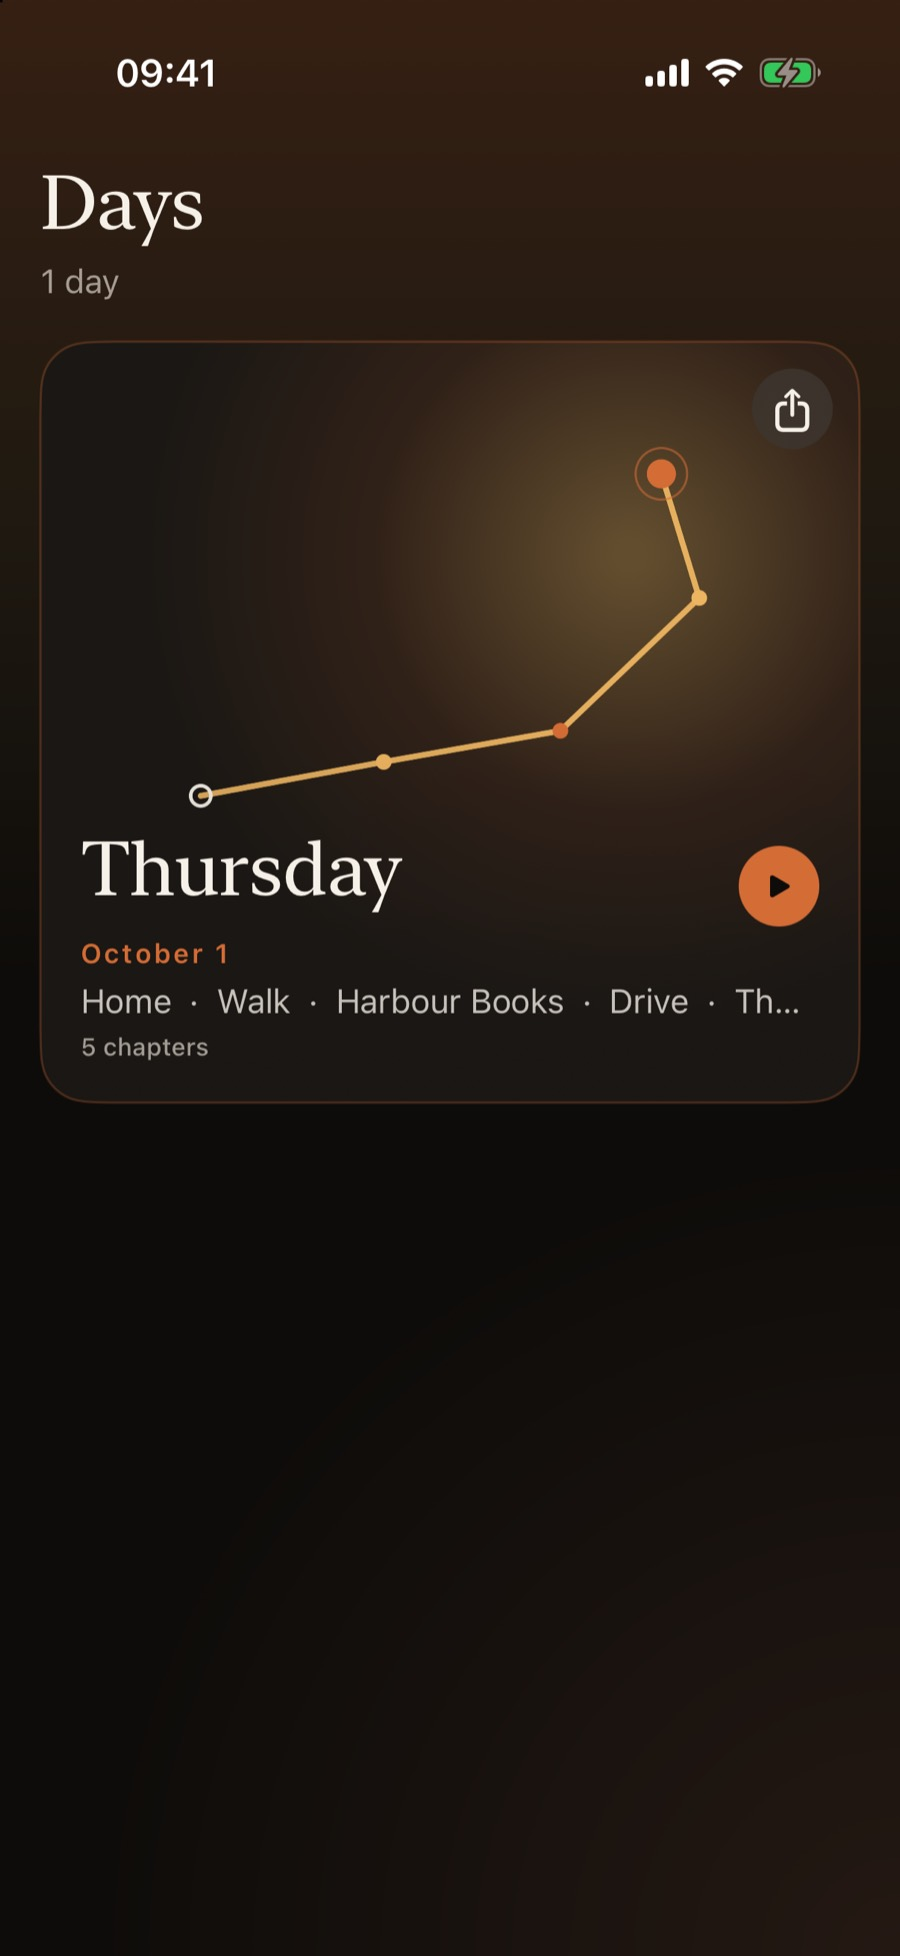
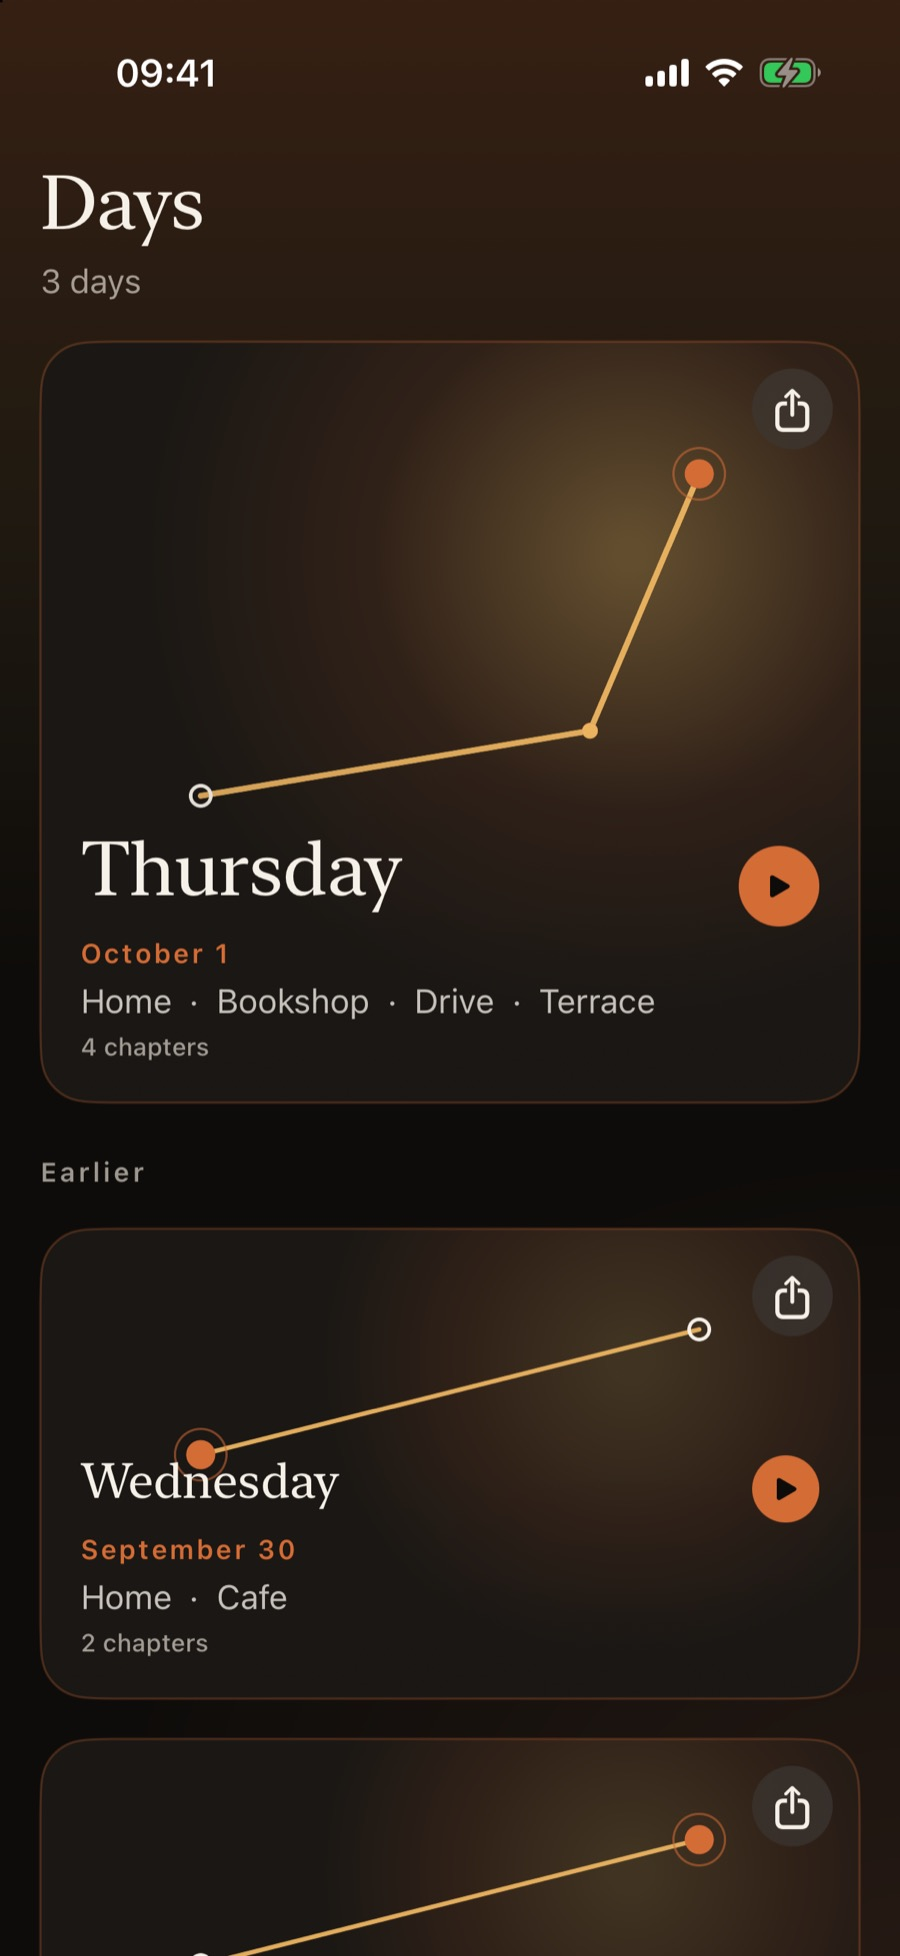
Replace the launch screenshots with the current Days list and film playback.

diff --git a/index.html b/index.html
@@ -147,15 +147,15 @@
     <div class="stage">
       <figure>
         <div class="phone">
-          <img src="days.jpg" alt="The Days screen, with one day drawn as a route from home through a walk, Harbour Books, and a drive.">
+          <img src="days.jpg" alt="The Days screen, with three sample days. Thursday runs from home to a bookshop, a drive, and a terrace.">
         </div>
         <figcaption>Days</figcaption>
       </figure>
       <figure>
         <div class="phone">
-          <img src="stills.jpg" alt="The Stills screen, with an overhead picture of home and the start of a walk.">
+          <img src="film.jpg" alt="Playback of a sample day, with the drive drawn across the city toward the water.">
         </div>
-        <figcaption>Stills</figcaption>
+        <figcaption>Playback</figcaption>
       </figure>
     </div>
     <p class="note">A sample day, shown in the app.</p>
